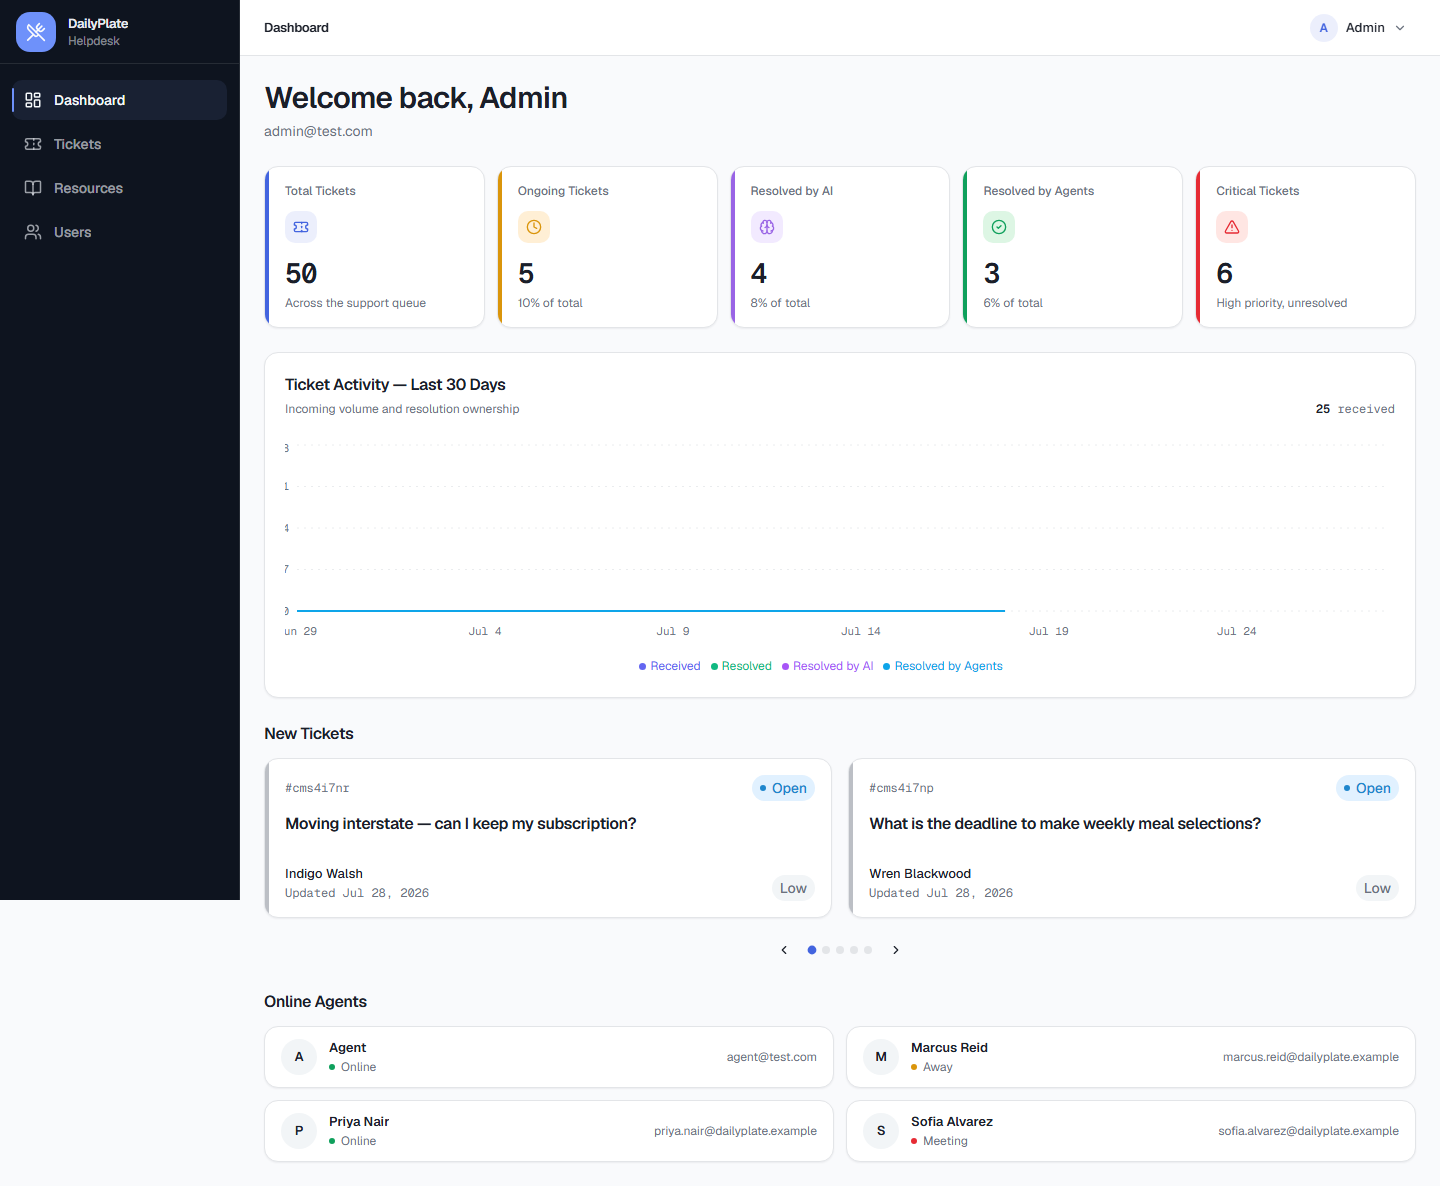
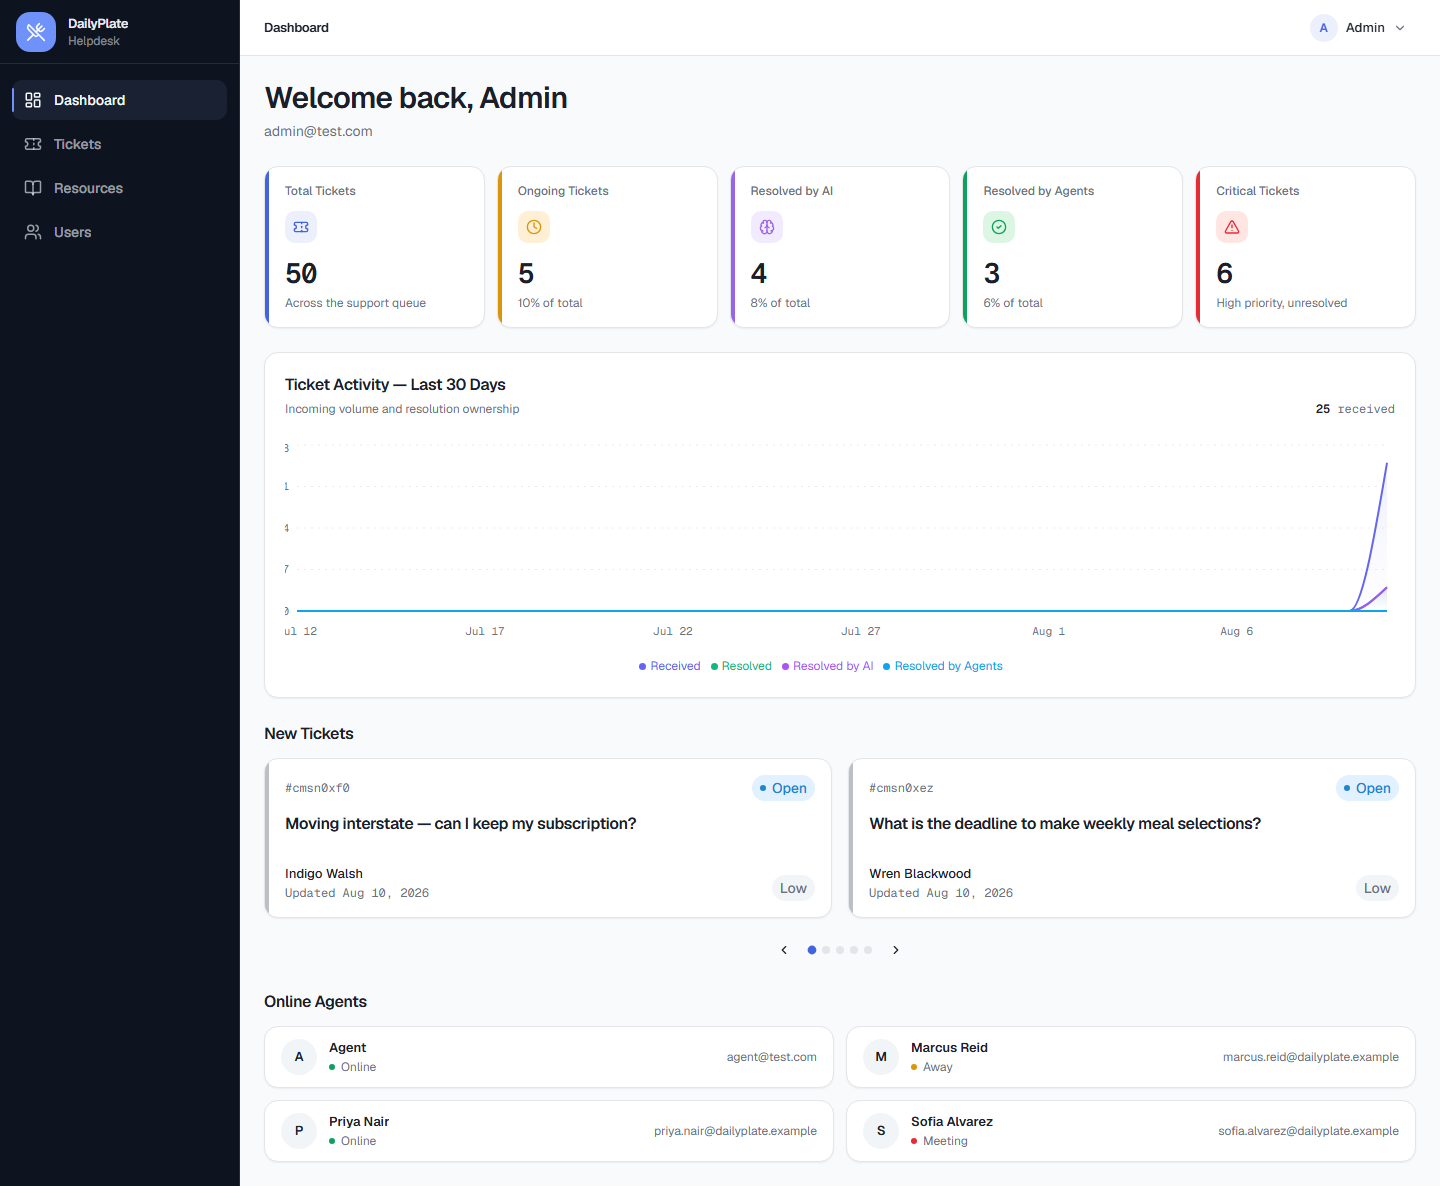
Fix full-page screenshot capture and re-shoot the docs assets
The app sidebar is position: fixed, so on a page taller than the viewport
a fullPage screenshot stitched a tall image with the sidebar painted only
across its top 900px. capture() now measures scrollHeight and grows the
viewport to match before shooting, restoring it afterwards, so the
sidebar renders full height. Purely a capture concern — the app is
correct in a real browser.

Add prisma/seedAgents.ts for the five demo agents (nothing else recreated
them, so a reset database left users.png and the Online Agents list
almost empty), re-capture all five affected assets, and document the
height behaviour and the full reset/re-seed recipe in docs/assets.

Claude-Session: https://claude.ai/code/session_01PV1cgrHGYuckRJnTU3twZT

diff --git a/backend/prisma/seedAgents.ts b/backend/prisma/seedAgents.ts
@@ -1,0 +1,80 @@
+import 'dotenv/config'
+import { betterAuth } from 'better-auth'
+import { prismaAdapter } from 'better-auth/adapters/prisma'
+import { AgentStatus, Role } from '@prisma/client'
+import { prisma } from '../src/lib/prisma.ts'
+
+const DEMO_PASSWORD = 'agent@731'
+
+const seedAuth = betterAuth({
+  database: prismaAdapter(prisma, { provider: 'postgresql' }),
+  emailAndPassword: { enabled: true },
+})
+
+const DEMO_AGENTS = [
+  {
+    name: 'Priya Nair',
+    email: 'priya.nair@dailyplate.example',
+    is_active: true,
+    online_status: AgentStatus.ONLINE,
+    createdAt: new Date('2025-12-27T00:00:00.000Z'),
+  },
+  {
+    name: 'Marcus Reid',
+    email: 'marcus.reid@dailyplate.example',
+    is_active: true,
+    online_status: AgentStatus.AWAY,
+    createdAt: new Date('2026-01-26T00:00:00.000Z'),
+  },
+  {
+    name: 'Sofia Alvarez',
+    email: 'sofia.alvarez@dailyplate.example',
+    is_active: true,
+    online_status: AgentStatus.MEETING,
+    createdAt: new Date('2026-02-25T00:00:00.000Z'),
+  },
+  {
+    name: 'Daniel Kim',
+    email: 'daniel.kim@dailyplate.example',
+    is_active: false,
+    online_status: AgentStatus.OFFLINE,
+    createdAt: new Date('2026-04-21T00:00:00.000Z'),
+  },
+  {
+    name: 'Amara Okonkwo',
+    email: 'amara.okonkwo@dailyplate.example',
+    is_active: true,
+    online_status: AgentStatus.OFFLINE,
+    createdAt: new Date('2026-05-26T00:00:00.000Z'),
+  },
+]
+
+async function main() {
+  for (const agent of DEMO_AGENTS) {
+    const existing = await prisma.user.findUnique({ where: { email: agent.email } })
+    if (existing) {
+      console.log(`${agent.email} already exists, skipping.`)
+      continue
+    }
+
+    const result = await seedAuth.api.signUpEmail({
+      body: { email: agent.email, password: DEMO_PASSWORD, name: agent.name },
+    })
+    if (!result?.user) throw new Error(`Failed to create ${agent.email}`)
+
+    await prisma.user.update({
+      where: { id: result.user.id },
+      data: {
+        role: Role.AGENT,
+        is_active: agent.is_active,
+        online_status: agent.online_status,
+        createdAt: agent.createdAt,
+      },
+    })
+    console.log(`Created ${Role.AGENT} user: ${agent.email}`)
+  }
+}
+
+main()
+  .catch((e) => { console.error(e); process.exit(1) })
+  .finally(() => prisma.$disconnect())

diff --git a/e2e/tests/screenshots/capture.screens.spec.ts b/e2e/tests/screenshots/capture.screens.spec.ts
@@ -18,10 +18,26 @@ async function settle(page: Page, ...stableElements: Locator[]): Promise<void> {
 }
 
 async function capture(page: Page, filename: string): Promise<void> {
-  await page.screenshot({
-    path: path.join(outDir, filename),
-    fullPage: true,
-  })
+  const viewport = page.viewportSize() ?? { width: 1440, height: 900 }
+  const documentHeight = await page.evaluate(() => document.documentElement.scrollHeight)
+
+  try {
+    if (documentHeight > viewport.height) {
+      await page.setViewportSize({
+        width: viewport.width,
+        height: Math.ceil(documentHeight),
+      })
+      await page.waitForLoadState('networkidle', { timeout: settleTimeout })
+      await page.waitForTimeout(1600)
+    }
+
+    await page.screenshot({
+      path: path.join(outDir, filename),
+      fullPage: true,
+    })
+  } finally {
+    await page.setViewportSize(viewport)
+  }
 }
 
 test('captures the admin dashboard', async ({ page }) => {

diff --git a/docs/assets/README.md b/docs/assets/README.md
@@ -11,8 +11,8 @@ Guidelines for images kept here:
 
 ## Current assets
 
-Captured at 1440×900 from the running app against seeded demo data, via the opt-in Playwright
-`screenshots` project (`CAPTURE_SCREENSHOTS=1 npx playwright test --project=screenshots` from `e2e/`):
+Captured from the running app against seeded demo data, via the opt-in Playwright `screenshots`
+project (`CAPTURE_SCREENSHOTS=1 npx playwright test --project=screenshots` from `e2e/`):
 
 | File | Screen |
 |---|---|
@@ -23,10 +23,23 @@ Captured at 1440×900 from the running app against seeded demo data, via the opt
 | `users.png` | User management (roles, status, availability) |
 | `login.png` | Sign-in page |
 
-All six images were re-captured after the address sanitization, so the pixels match the current
-seed fixtures: fictional customers at `@example.com`, seeded agents at `@dailyplate.example`, and
-the `admin@test.com` / `agent@test.com` demo accounts. They contain no real credentials, personal
-data, private URLs, or production content.
+The pixels match the current seed fixtures: fictional customers at `@example.com`, seeded agents at
+`@dailyplate.example`, and the `admin@test.com` / `agent@test.com` demo accounts. They contain no
+real credentials, personal data, private URLs, or production content.
+
+### Image height
+
+The viewport is 1440×900, but the images are **not** all 900px tall. The app sidebar is
+`position: fixed`, so it is sized to the viewport rather than the document — on a page taller than
+the viewport, a `fullPage` screenshot would stitch a tall image with the sidebar painting only its
+top 900px and bare background below it. The `capture()` helper in
+`e2e/tests/screenshots/capture.screens.spec.ts` therefore measures `document.documentElement.scrollHeight`
+and grows the viewport to match before shooting, restoring it afterwards. Pages that fit come out
+1440×900; taller ones (dashboard, ticket queue) come out at their natural height with a full-height
+sidebar. This is a capture concern only — the app itself is correct in a real browser.
+
+A copy of all six images also lives in [`../case-study/images/`](../case-study/images/) for the
+case study. **Re-capturing does not update those** — copy them across afterwards.
 
 ### Re-capturing
 
@@ -35,16 +48,26 @@ The screenshots render whatever is in the **test** database, so seed it before c
 ```bash
 docker compose up postgres-test -d
 cd backend
+bun run --env-file=.env.test.example prisma/seed.ts          # 46 SOP articles
+bun run --env-file=.env.test.example prisma/seedAgents.ts    # 5 demo agents, mixed availability
 bun run --env-file=.env.test.example prisma/seedTickets.ts   # varied statuses and priorities
 bun run --env-file=.env.test.example prisma/addTickets.ts    # general questions for the AI path
 cd ../e2e
 CAPTURE_SCREENSHOTS=1 npx playwright test --project=screenshots
 ```
 
-Two notes learned the hard way:
+Every seed above is idempotent — re-running skips what already exists.
+
+Three notes learned the hard way:
 
 - Run the capture **twice** on a fresh queue. The first pass boots the backend, which drains the
   pg-boss triage queue; the second pass captures the settled state rather than tickets still in
   `AI_PROCESSING`.
 - Capture **before** a full `npm test` run, or clean up afterwards. The user-management specs
-  create throwaway `e2e-…@test.com` accounts that otherwise appear in `users.png`.
+  create throwaway `e2e-…@test.com` accounts that otherwise appear in `users.png`. They accumulate
+  across runs, so if `users.png` has grown a wall of `E2E User …` rows, reset the test database:
+  `docker exec dailyplate-helpdesk-postgres-test-1 psql -U helpdesk -d helpdesk_test -c 'DROP SCHEMA public CASCADE; CREATE SCHEMA public;'`,
+  then `prisma db push` and re-run every seed above.
+- The demo agents come from `prisma/seedAgents.ts` and **nothing else recreates them**. `seed.ts`
+  only creates the admin. Resetting the database without running `seedAgents.ts` leaves `users.png`
+  and the dashboard's Online Agents list nearly empty.
